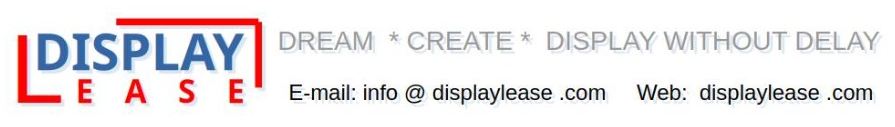
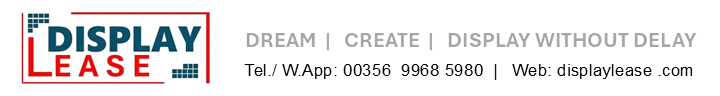
Replace footer with transparent-background version, remove white background styling

Changed region(s): [[0.0, 0.125, 1.0, 0.875]]

diff --git a/css/styles.css b/css/styles.css
@@ -1214,12 +1214,9 @@ h1, h2, h3, h4, h5 {
 .footer-logo-link { display: inline-block; margin-bottom: 4px; }
 
 .footer-banner-img {
-  max-width: 300px;
+  max-width: 320px;
   width: 100%;
   height: auto;
-  background: white;
-  padding: 8px 12px;
-  border-radius: 8px;
   display: block;
 }
 
